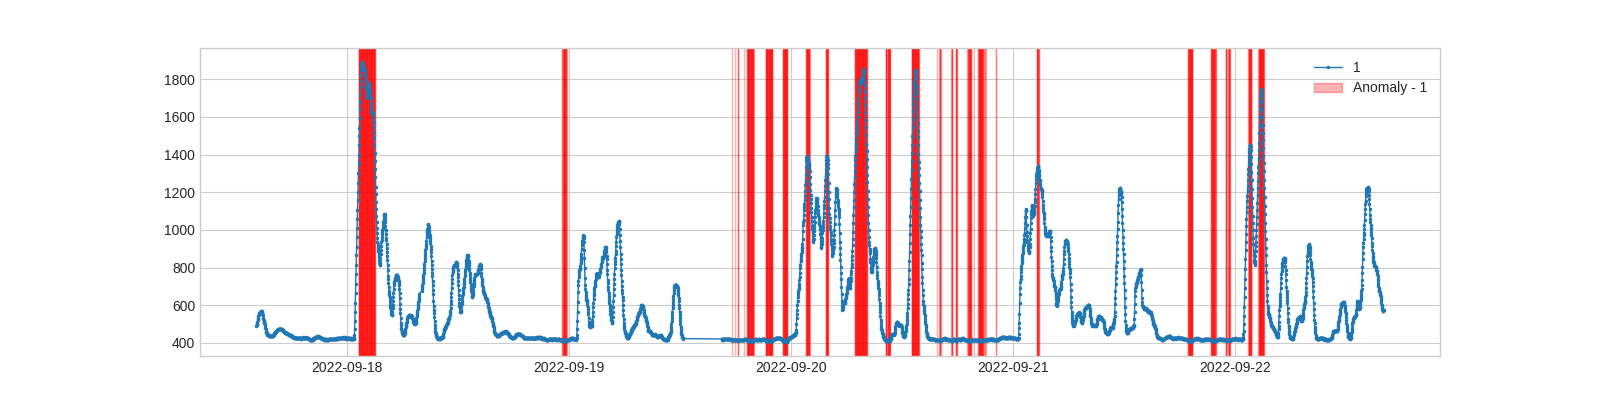
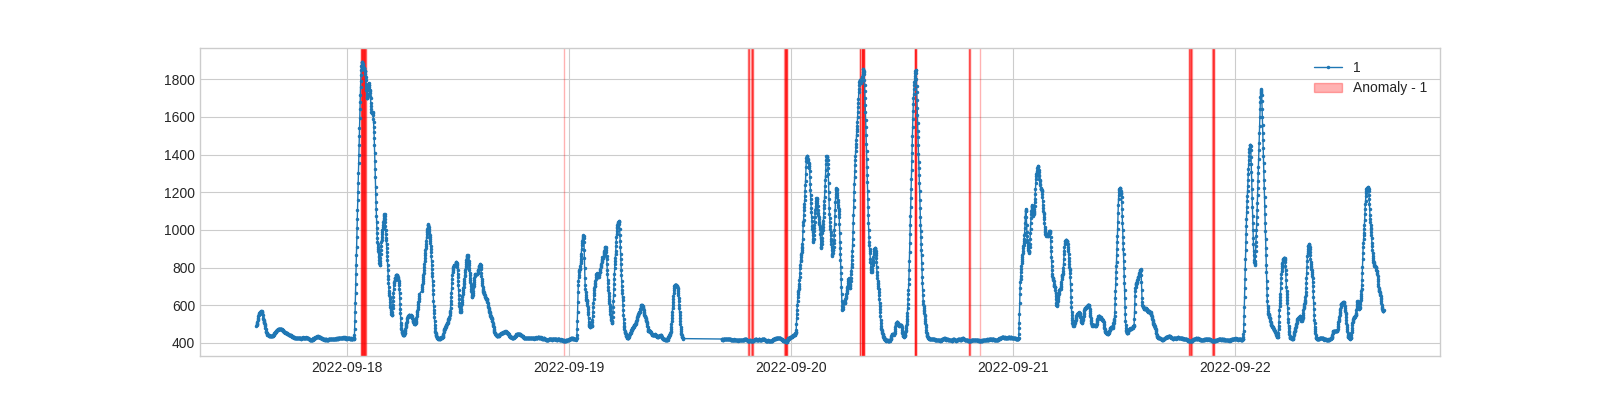
forecasting done

diff --git a/src/forecast.py b/src/forecast.py
@@ -1,0 +1,79 @@
+from json import load
+import pandas as pd
+import matplotlib.pyplot as plt
+import seaborn as sns
+import numpy as np
+import datetime
+
+from lightgbm import LGBMRegressor
+from statsmodels.tsa.seasonal import seasonal_decompose
+from statsmodels.graphics.tsaplots import plot_acf
+from scipy.stats import t
+from sklearn.model_selection import TimeSeriesSplit, train_test_split
+from sklearn.metrics import mean_absolute_error
+
+from thingspeak import load_data
+
+def train_time_series_with_folds(df, horizon=4200):
+    print(df.keys())
+    X = df.drop(1, axis=1)
+    y = df[1]
+
+    #take last week of the dataset for validation
+    X_train, X_test = X.iloc[:-horizon,:], X.iloc[-horizon:,:]
+    y_train, y_test = y.iloc[:-horizon], y.iloc[-horizon:]
+    
+    #create, train and do inference of the model
+    model = LGBMRegressor(random_state=42)
+    model.fit(X_train, y_train)
+    predictions = model.predict(X_test)
+    
+    #calculate MAE
+    mae = np.round(mean_absolute_error(y_test, predictions), 3)    
+    
+    #plot reality vs prediction for the last week of the dataset
+    fig = plt.figure(figsize=(16,6))
+    plt.title(f'Real vs Prediction - MAE {mae}', fontsize=20)
+    plt.plot(y_test, color='red')
+    plt.plot(pd.Series(predictions, index=y_test.index), color='green')
+    plt.xlabel('Hour', fontsize=16)
+    plt.ylabel('Number of Shared Bikes', fontsize=16)
+    plt.legend(labels=['Real', 'Prediction'], fontsize=16)
+    plt.grid()
+    plt.show()
+    
+    #create a dataframe with the variable importances of the model
+    df_importances = pd.DataFrame({
+        'feature': model.feature_name_,
+        'importance': model.feature_importances_
+    }).sort_values(by='importance', ascending=False)
+    
+    #plot variable importances of the model
+    plt.title('Variable Importances', fontsize=16)
+    sns.barplot(x=df_importances.importance, y=df_importances.feature, orient='h')
+    plt.show()
+
+fields,_ = load_data()
+
+
+n = len(fields['field1'])
+sensor_data = []
+for i in range(0,n):
+    date_string = fields['field1'][i,0]
+    datetime_obj = datetime.datetime.strptime(date_string, '%Y-%m-%dT%H:%M:%SZ')
+    cin = []
+    cin.append(datetime_obj)
+    cin.append(fields['field1'][i,1])
+    cin.append(fields['field2'][i,1])
+    cin.append(fields['field3'][i,1])
+    cin.append(fields['field4'][i,1])
+    cin.append(fields['field5'][i,1])
+    sensor_data.append(cin)
+s_train = pd.DataFrame(sensor_data, index=None)
+# print(s_train)
+# exit()
+s_train[0] = pd.to_datetime(s_train[0])
+s_train = s_train.set_index(0)
+
+print(s_train.info())
+train_time_series_with_folds(s_train)

diff --git a/src/thingspeak.py b/src/thingspeak.py
@@ -10,7 +10,7 @@ import datetime
 import pandas as pd
 from adtk.data import validate_series
 from adtk.visualization import plot
-from adtk.detector import QuantileAD, OutlierDetector, SeasonalAD
+from adtk.detector import QuantileAD, OutlierDetector, SeasonalAD,InterQuartileRangeAD,LevelShiftAD,PersistAD
 from sklearn.neighbors import LocalOutlierFactor
 import matplotlib as mpl
 from notification import send_email,send_plot
@@ -162,11 +162,12 @@ def outlier_detection(field,key):
         s_train = validate_series(s_train)
         nneigh = min(len(field)-1,1000)
         # outlier_detector = OutlierDetector(LocalOutlierFactor(contamination=0.05, n_neighbors=nneigh))
-        outlier_detector = QuantileAD(low=0.05,high=0.95)
-        # outlier_detector = SeasonalAD()
+        outlier_detector = QuantileAD(low=0.01,high=0.99)
+        # outlier_detector = InterQuartileRangeAD(c=1.5)
+        # outlier_detector = PersistAD()
         anomalies = outlier_detector.fit_detect(s_train)
         anomalies_np = anomalies.to_numpy()
-        num_anomalies = anomalies_np[:,-1].sum()
+        num_anomalies = anomalies_np.sum()
         plot(s_train, anomaly=anomalies, ts_linewidth=1, ts_markersize=3, anomaly_color='red',
             anomaly_alpha=0.3, curve_group='all')
         # plt.show()
@@ -249,9 +250,9 @@ def notify(field):
 
         
 
-    print(email_text)
-    print(markdown_text)
-    # telegram_alert(field)
+    # print(email_text)
+    # print(markdown_text)
+    telegram_alert(field)
     # telegram_notify('registered_users.json',markdown_text)
     # send_doc()
     # send_email(email_text)
